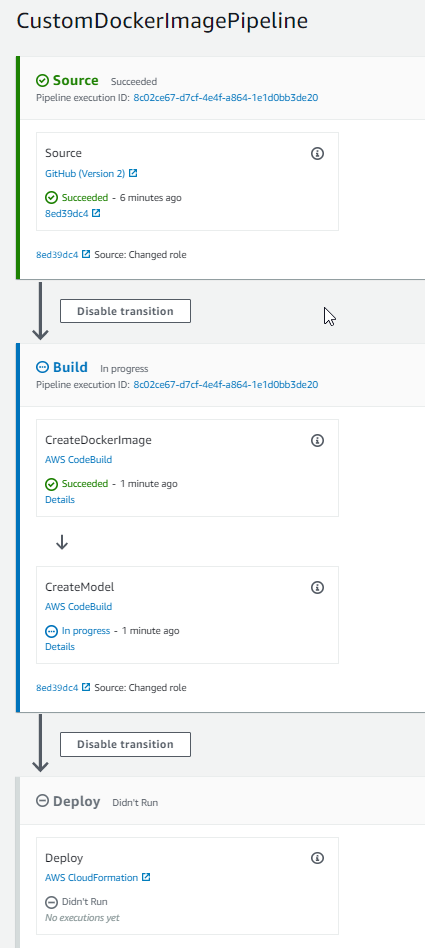
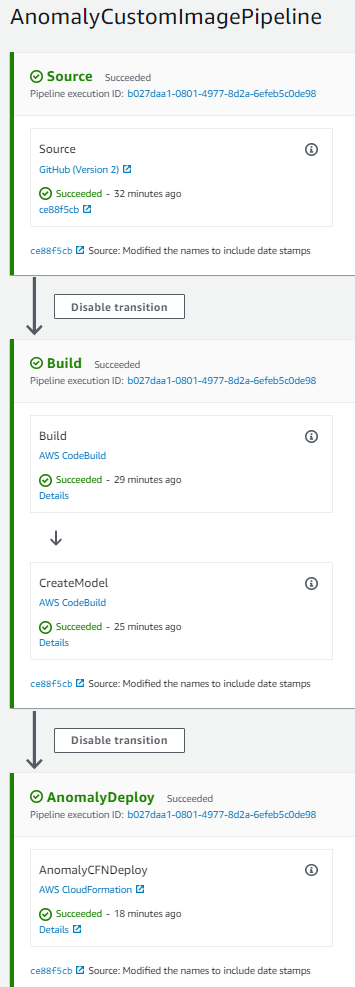
Updated labs for the two pipelines

diff --git a/02_custom_image_pipeline copy.md b/02_custom_image_pipeline copy.md
@@ -24,7 +24,7 @@ Broadly, you will need to complete the following tasks.
 
 ## 1. Get the Project into your own Git Repository
 
-1. The repository URL for the example can be found here: https://github.com/nicktodd/machinelearning-custom-image
+1. The repository URL for the example can be found here: https://github.com/nicktodd/custom-image-anomaly
 
 2. Fork this repository into your own Git repository. Your repository needs to be GitHub or CodeCommit as these are supported by CodePipeline and CodeBuild. We suggest you use GitHub since you will be able to authenticate more easily due to company restrictions on Code Commit.
 
@@ -33,14 +33,13 @@ Broadly, you will need to complete the following tasks.
 
 1. Using your preferred editor, open the `buildspec.yml` file in your new Git project.
 
-2.  Note the various sections. In the first section, we are logging into the Docker registry for our own ECR registry, and then also for the ECR registry of the location of our parent Docker image.
+2.  Note the various sections. In the first section, we are logging into the Docker registry for our own ECR registry. The parent image is a Ubuntu standard image in Dockerhub.
 
 ```
   pre_build:
     commands:
       - echo Logging in to Amazon ECR...
       - aws ecr get-login-password --region eu-west-1 | docker login --username AWS --password-stdin xxx.dkr.ecr.eu-west-1.amazonaws.com 
-      - aws ecr get-login-password --region eu-west-1 | docker login --username AWS --password-stdin 520713654638.dkr.ecr.eu-west-1.amazonaws.com
 ```
 
 3. Review the commands in the build section. We are building a Docker image from the Dockerfile.
@@ -49,11 +48,11 @@ Broadly, you will need to complete the following tasks.
  build:
     commands:
       - account=$(aws sts get-caller-identity --query Account --output text)      
-      - docker build -t custommlimage:latest .
-      - docker tag custommlimage:latest ${account}.dkr.ecr.eu-west-1.amazonaws.com/custommlimage:latest
+      - docker build -t anomalyimage:latest .
+      - docker tag anomalyimage:latest ${account}.dkr.ecr.eu-west-1.amazonaws.com/anomalyimage:latest
 ```
 
-4. You must change the image name in the file to be something unique to you. You could simply add your initials on the end of the image name and tag. In simple terms, change every reference to `customimage` to something else, eg. `customimage-nt`.
+4. You must change the image name in the file to be something unique to you. You could simply add your initials on the end of the image name and tag. In simple terms, change every reference to `anomalyimage` to something else, eg. `anomalyimage-nt`.
 
 Note the commands we are using to obtain our account ID. The service being used is the Secure Token Service, STS.
 
@@ -62,18 +61,27 @@ Note the commands we are using to obtain our account ID. The service being used 
 ```
 post_build:
     commands:
-      - docker push ${account}.dkr.ecr.eu-west-1.amazonaws.com/custommlimage:latest
+      - docker push ${account}.dkr.ecr.eu-west-1.amazonaws.com/anomalyimage:latest
 ```
-5. You will also need to change the name here from `customimage` to your new name. So make the change now and save the file.
+5. You will also need to change the name here from `anomalyimage` to your new name. So make the change now and save the file.
 
-6. Now open the Dockerfile. We don't need to spend a long time on this, but review the core sections. You can see that the parent image is a basic Ubuntu image! Nothing will be available, so in our RUN commands we are installing both Python and also the required Python libraries. Lastly, we are copying our ML script into the image (\coe\main.py). It is really only a fake script as you can see if you review it, but our focus is not the algorithm.
+6. Now open the Dockerfile. We don't need to spend a long time on this, but review the core sections. You can see that the parent image is a basic Ubuntu image! Nothing will be available, so in our RUN commands we are installing both Python and also the required Python libraries and various other required libraries. In addition, we are copying over the ML code into the image and giving it write permissions.
+
+Note the presence of two files particularly:
+
+* anomaly-model/train
+* anomaly-model/serve
+
+These are the two files that SageMaker will use when it runs the model. To do training, SageMaker runs `docker run image-name train` and when used for predictions it uses `docker run image-name serve`. 
+
+If you are interested in the Algorithm and how it works, feel free to explore the various files located in the `anomaly-model` directory.
 
 
 ## 3. Set up the CodeBuild Project
 
 6. Using the `AWS Web Console`, navigate to the `CodeBuild` service.
 
-7. Click `Create Build Project`. Set the name to be [YourInitials]-CustomImageBuild. for the Source, link the project to your Git repository that you created earlier in step 1.
+7. Click `Create Build Project`. Set the name to be `[YourInitials]-AnomalyImageBuild`. For the Source, link the project to your Git repository that you created earlier in step 1.
 
 8. For the Environment, this is where you select the Docker image that will be used to complete your build. We just need a standard Amazon Linux for x86 processors.
 
@@ -85,6 +93,7 @@ post_build:
 
 12. The rest can be left as defaults, so you can simply select `Create build project`.
 
+13. Finally, in the AWS Web Console, head over the Elastic Container Registry service and create a `Repository` with the same name as your image, eg. `anomalyimage-nt`. Use all the default settings when you create it.
 
 ## 4. Define the relevant IAM policies and roles
 
@@ -99,12 +108,13 @@ An example is located in[iam_policy_examples/docker_image_codebuild.json](iam_po
 
 2. If it works, you will see a new image in your ECR repository. YOu can find it by navigating to the Elastic Container Registry it in the Amazon Web Console.
 
+3. If it fails, check the error log. The chances are you have either got your repository name wrong or you have not added the relevant permissions to your CodeBuild IAM role policy.
 
-## Create a Second CodeBuild Project to complete the machine learning
+## Create a Second CodeBuild Project to complete the Machine Learning
 
 So you now have a CodeBuild step that will create the Docker image. What we will now do is create another CodeBuild step that will do the machine learning. It could be done all in one, but this separation gives us more flexibility when running our actions.
 
-1. Create a new CodeBuild project called `CustomImageMachineLearn[YourInitials]`.
+1. Create a new CodeBuild project called `CreateAnomalyModel[YourInitials]`.
 
 2. Go through the steps linking it to your Source repository as before, and then for the buildspec file specify a different name this time, as the buildspec is now called `buildspec-model.yml`.
 
@@ -112,15 +122,15 @@ So you now have a CodeBuild step that will create the Docker image. What we will
 
 4. Locate the Role name variable in line 10 and replace it with your AmazonSagemaker execution role (there is probably one already in your account).
 
-5. On line 15, update the prefix variable to also include your initials at the end. eg:
+5. On line 17, update the prefix variable to also include your initials just before the date stamp. eg:
 
 ```
-prefix = 'custom-ml-image-nt'
+prefix = 'anomaly-ml-image-nt' + dateAsString
 ```
 
-6. On line 21, replace the image name with your chosen image name from your build step from earlier on.
+6. On line 24, replace the image name with your chosen image name from your build step from earlier on.
 
-Finally, review the rest of the file. It should look familiar as it is using the SageMaker API to create a model based on learning from a dummy CSV file.
+You will see that an Estimator is created in order for us to do the Machine Learning. As it happens, this particular algorithm doesn't really need to do any learning, so actually not much is happening here! However, SageMaker requires a Model to be created so we have to do something. If you are interested, you can review the anomaly-model/train Python script to see what is actually happening.
 
 You will also note that it creates a parameter file, similar to the previous example ready for deployment by Cloudformation.
 
@@ -136,13 +146,38 @@ The pipeline should look like the below:
 
 You can set this pipeline up for yourself using your experience from the previous pipeline to remind you how to do it. We recommend using the Create Pipeline wizard as it is the least painless option. A few things to bear in mind:
 
-1. You will have to go back into the pipeline to amend the Cloudformation parameter location as you did in the previous exercise as the BuildArtifact option will be missing
-   
+1. You will have to go back into the pipeline to amend the Cloudformation parameter location as you did in the previous exercise as the BuildArtifact option will be missing.
+
 2. You will also have to add in the second Action Group after the pipeline has been created. Since when you use the wizard it assumes only one build step, but you will have two.
 
-## Reviewing the Failing Cloudformation Template Deployment
+3. Below is a screen shot of the configuration for your CodeBuild for the Docker image:
+
+![Docker Image CodeBuild Step](images/codebuild-config-docker.png)
+
+4. You must ensure that you add a name to the BuildArtifact of the second Action that building the model, otherwise the CloudFormation template will not get the parameter file made available to it. The tell tail error is rather vague S3 bucket request error. A sample screenshot for your second CodeBuild is shown below:
+
+![Model Creation CodeBuild Step](images/codebuild-config-model.png)
 
 
+5. You can now try running the pipeline. If you are incredibly skillful (or lucky!)
+ it will work first time. If not, it is a matter of debugging the process.
+
+
+## Reviewing the Deployment
+
+1. Using the AWS Web Console, navigate to the SageMaker service, and then click on the Endpoints link on the left.
+
+2. Locate your endpoint in the list and select it.
+
+3. You will see your Endpoint is `In Service`.
+
+![Endpoint](images/endpoint-inservice.png)
+
+4. Scroll down and you will see the graphs. Locate the link to `View Logs`and click it.
+
+5. Select the link to the `log stream`. You will see all the health checks returning a healthy HTTP 200 response.
+
+![Log Events](images/log-events.png)
 
 
 ## Troubleshooting
